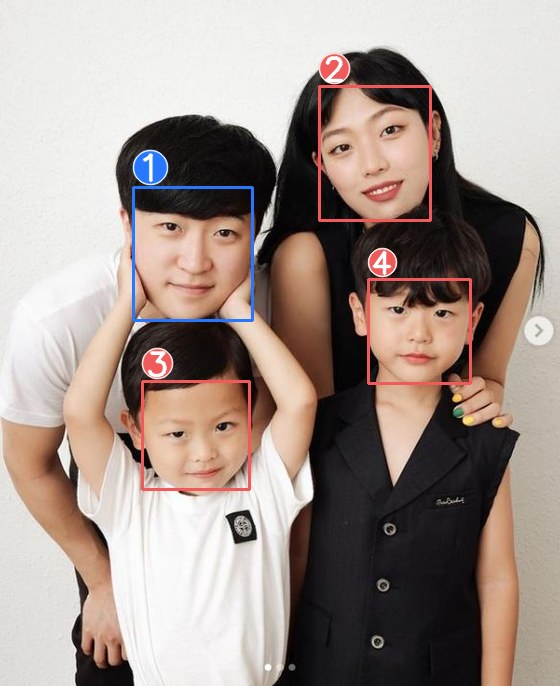
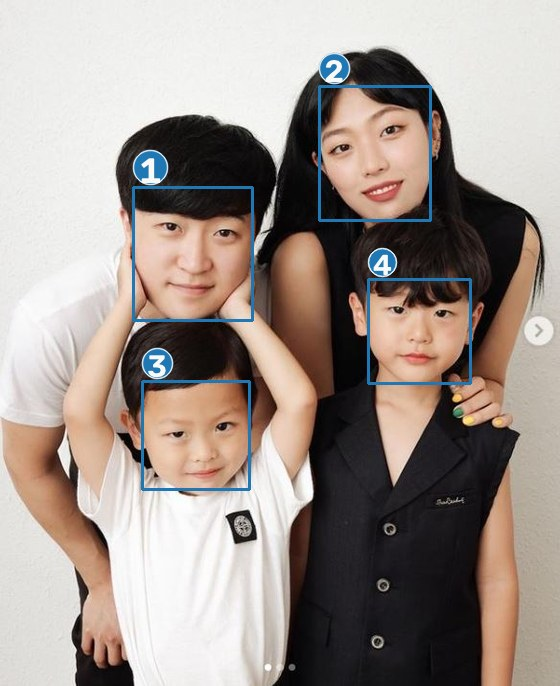
Draw faces in one color and match the demo to the portfolio design
Gender is now read from the list text instead of box color, so the
compute draw() uses one accent color (#1F77B4) for every box and badge
and the six sample annotations are redrawn with it. Detection on the
original test_images gives the same face count, order, age, gender and
emotion as the results embedded in the static page. The static page uses
the portfolio's light theme tokens and drops middle-dot meta strings.
Same content as HF Spaces ingyoun/face-rec-demo (25fcaa90) and
ingyoun/face-rec-api (e76b84cf).

Changed region(s): [[0.5464, 0.0612, 0.85, 0.5816], [0.2429, 0.2143, 0.4554, 0.7347], [0.2125, 0.2755, 0.2429, 0.4592]]

diff --git a/hf-spaces/static-demo/index.html b/hf-spaces/static-demo/index.html
@@ -7,81 +7,82 @@
 <link rel="preconnect" href="https://cdn.jsdelivr.net" crossorigin />
 <link rel="stylesheet" as="style" crossorigin
   href="https://cdn.jsdelivr.net/gh/orioncactus/pretendard@v1.3.9/dist/web/static/pretendard.min.css" />
-<link rel="stylesheet"
-  href="https://cdn.jsdelivr.net/npm/@fontsource/jetbrains-mono@5.0.18/index.min.css" />
+
 <style>
   :root{
-    --bg:#010102; --surface:#0f1011; --elevated:#141516; --deep:#18191a;
-    --border:#23252a; --border-mid:#34343a;
-    --fg:#f7f8f8; --fg-2:#d0d6e0; --muted:#8a8f98; --tertiary:#62666d;
-    --accent:#5e6ad2; --accent-light:#828fff;
-    --male:#5b8def; --female:#e06b8b;
+    --paper:#F9FAF8; --panel:#E7E9E4; --accent-wash:#DDEAF4;
+    --ink:#1C2124; --ink-2:#41484C; --ink-3:#5A6266;
+    --accent:#1F77B4; --accent-text:#175F96;
+    --mark-base:#757C81; --rule:#C5CAC6;
+    --font-sans:'Pretendard',-apple-system,BlinkMacSystemFont,system-ui,'Apple SD Gothic Neo','Malgun Gothic',sans-serif;
+    --font-code:ui-monospace,'Cascadia Mono',Consolas,monospace;
+    color-scheme:light;
   }
   *{box-sizing:border-box;}
-  html,body{margin:0;padding:0;background:var(--bg);}
+  html,body{margin:0;padding:0;background:var(--paper);}
   body{
-    font-family:'Pretendard',system-ui,-apple-system,sans-serif;
-    color:var(--fg);-webkit-font-smoothing:antialiased;
-    line-height:1.55;letter-spacing:-0.01em;word-break:keep-all;
+    font-family:var(--font-sans);color:var(--ink-2);
+    -webkit-font-smoothing:antialiased;-moz-osx-font-smoothing:grayscale;
+    line-height:1.55;word-break:keep-all;
   }
-  .mono{font-family:'JetBrains Mono',ui-monospace,monospace;}
+  ::selection{background:var(--accent-wash);}
+  :focus{outline:none;}
+  :focus-visible{outline:2px solid var(--accent-text);outline-offset:2px;border-radius:2px;}
+  a{color:var(--accent-text);text-underline-offset:2px;transition:color .15s ease-out;}
+  a:hover{color:var(--ink);}
+  .mono{font-family:var(--font-code);}
+  .num{font-variant-numeric:tabular-nums;}
+  button{font-family:inherit;}
+  /* 데모 공통: 탭(선택 상태는 파랑 밑줄) */
+  @media (prefers-reduced-motion:reduce){*{transition-duration:0s !important;}}
   .wrap{max-width:920px;margin:0 auto;padding:26px 22px 34px;}
 
-  header h1{font-size:20px;font-weight:600;letter-spacing:-0.03em;margin:0;}
-  header p{font-size:13px;color:var(--muted);margin:6px 0 0;}
-  .pills{display:flex;flex-wrap:wrap;gap:7px;margin:14px 0 0;}
-  .pills span{background:var(--elevated);border:1px solid var(--border);border-radius:9999px;
-    padding:5px 11px;font-size:11px;color:var(--fg-2);}
+  header h1{font-size:20px;font-weight:650;color:var(--ink);margin:0;line-height:1.35;}
+  header p{font-size:15px;color:var(--ink-2);margin:6px 0 0;line-height:1.65;}
+  .pills{display:flex;flex-wrap:wrap;gap:4px 18px;margin:10px 0 0;font-size:14px;color:var(--ink-3);}
 
-  .sec-label{font-size:10.5px;letter-spacing:.14em;color:var(--tertiary);text-transform:uppercase;
-    margin:26px 0 10px;}
+  .sec-label{font-size:15px;font-weight:650;color:var(--ink);margin:28px 0 10px;}
 
   /* picker: sample thumbs + upload */
-  .thumbs{display:grid;grid-template-columns:repeat(auto-fill,minmax(122px,1fr));gap:10px;}
-  .thumb{position:relative;border:1px solid var(--border);border-radius:11px;overflow:hidden;cursor:pointer;
-    background:var(--surface);padding:0;text-align:left;font-family:inherit;transition:border-color .14s,transform .14s;}
-  .thumb img{display:block;width:100%;height:90px;object-fit:cover;background:var(--deep);}
-  .thumb .cap{padding:7px 9px;}
-  .thumb .cap b{display:block;font-size:11.5px;font-weight:600;color:var(--fg);letter-spacing:-0.02em;}
-  .thumb .cap i{display:block;font-size:10px;color:var(--tertiary);font-style:normal;margin-top:2px;}
-  .thumb:hover{border-color:var(--border-mid);transform:translateY(-1px);}
-  .thumb.active{border-color:var(--accent);}
-  .thumb.active::after{content:"";position:absolute;inset:0;box-shadow:inset 0 0 0 1px var(--accent);border-radius:11px;pointer-events:none;}
+  .thumbs{display:grid;grid-template-columns:repeat(auto-fill,minmax(122px,1fr));gap:12px;}
+  .thumb{position:relative;border:0;cursor:pointer;background:none;padding:0;text-align:start;}
+  .thumb img{display:block;width:100%;height:90px;object-fit:cover;border:1px solid var(--rule);}
+  .thumb .cap{display:block;padding:6px 0 0;}
+  .thumb .cap b{display:block;font-size:14px;font-weight:600;color:var(--ink);}
+  .thumb .cap i{display:block;font-size:13px;color:var(--ink-3);font-style:normal;margin-top:1px;}
+  .thumb:hover img{border-color:var(--mark-base);}
+  .thumb.active img{border:2px solid var(--accent);}
+  .thumb.active .cap b{color:var(--accent-text);}
 
-  .upload{margin-top:10px;display:flex;align-items:center;gap:12px;flex-wrap:wrap;
-    border:1px dashed var(--border-mid);border-radius:11px;padding:14px 16px;background:var(--surface);}
-  .upload label{display:inline-flex;align-items:center;gap:8px;cursor:pointer;
-    background:var(--accent);color:#fff;border-radius:8px;padding:8px 15px;font-size:13px;font-weight:500;transition:background .14s;}
-  .upload label:hover{background:var(--accent-light);}
-  .upload input{display:none;}
-  .upload .hint{font-size:11.5px;color:var(--tertiary);}
+  .upload{margin-top:18px;display:flex;align-items:center;gap:14px;flex-wrap:wrap;}
+  .upload label{display:inline-flex;align-items:center;cursor:pointer;
+    background:var(--ink);color:var(--paper);border-radius:2px;padding:12px 20px;font-size:15px;font-weight:600;line-height:1;transition:background .15s ease-out;}
+  .upload label:hover{background:var(--ink-2);}
+  .upload label:focus-within{outline:2px solid var(--accent-text);outline-offset:2px;}
+  .upload input{position:absolute;opacity:0;width:1px;height:1px;}
+  .upload .hint{font-size:13px;color:var(--ink-3);flex:1;min-width:240px;}
 
   /* result */
-  .result{margin-top:14px;display:grid;grid-template-columns:1.4fr 1fr;gap:14px;align-items:start;}
+  .result{margin-top:22px;display:grid;grid-template-columns:1.4fr 1fr;gap:28px;align-items:start;}
   @media(max-width:640px){.result{grid-template-columns:1fr;}}
-  .stage{border:1px solid var(--border);border-radius:14px;overflow:hidden;background:var(--deep);position:relative;min-height:160px;}
+  .stage{border:1px solid var(--rule);overflow:hidden;position:relative;min-height:160px;}
   .stage img{display:block;width:100%;height:auto;}
   .stage .loading{position:absolute;inset:0;display:flex;flex-direction:column;align-items:center;justify-content:center;
-    gap:10px;background:rgba(1,1,2,.72);color:var(--fg-2);font-size:12.5px;text-align:center;padding:20px;}
-  .spinner{width:26px;height:26px;border:3px solid var(--border-mid);border-top-color:var(--accent);border-radius:50%;animation:spin .8s linear infinite;}
-  @keyframes spin{to{transform:rotate(360deg);}}
+    gap:10px;background:rgba(249,250,248,.86);color:var(--ink);font-size:15px;padding:20px;white-space:pre-line;}
 
-  .panel{border:1px solid var(--border);border-radius:14px;background:var(--surface);padding:14px 15px;}
-  .panel-h{display:flex;align-items:baseline;justify-content:space-between;gap:10px;margin-bottom:11px;}
-  .panel-h h3{font-size:13px;font-weight:600;letter-spacing:-0.02em;margin:0;}
-  .panel-h .n{font-size:11px;color:var(--tertiary);}
-  .faces{display:flex;flex-direction:column;gap:8px;max-height:340px;overflow:auto;}
-  .face{display:flex;align-items:center;gap:11px;padding:9px 11px;border:1px solid var(--border);border-radius:10px;background:var(--elevated);}
-  .face .tag{width:26px;height:26px;flex:none;border-radius:7px;display:flex;align-items:center;justify-content:center;
-    font-size:11px;font-weight:600;color:#fff;font-family:'JetBrains Mono',monospace;}
+  .panel-h{display:flex;align-items:baseline;justify-content:space-between;gap:10px;margin-bottom:8px;}
+  .panel-h h3{font-size:15px;font-weight:650;color:var(--ink);margin:0;}
+  .panel-h .n{font-size:14px;color:var(--ink-3);}
+  .faces{display:flex;flex-direction:column;max-height:340px;overflow:auto;border-top:1px solid var(--ink);}
+  .face{display:flex;align-items:center;gap:12px;padding:9px 2px;border-bottom:1px solid var(--rule);}
+  .face .tag{width:26px;height:26px;flex:none;border-radius:50%;display:flex;align-items:center;justify-content:center;
+    font-size:13px;font-weight:650;color:var(--paper);background:var(--accent);font-variant-numeric:tabular-nums;}
   .face .info{min-width:0;flex:1;}
-  .face .info .top{font-size:13px;font-weight:500;color:var(--fg);}
-  .face .info .sub{font-size:11px;color:var(--muted);margin-top:1px;}
-  .g-male{color:var(--male);} .g-female{color:var(--female);}
+  .face .info .top{font-size:15px;font-weight:600;color:var(--ink);}
+  .face .info .sub{font-size:14px;color:var(--ink-2);margin-top:1px;}
 
-  .note{font-size:11.5px;color:var(--tertiary);margin:16px 0 0;line-height:1.6;}
-  .note a{color:var(--muted);}
-  .err{color:var(--female);font-size:12px;}
+  .note{font-size:13px;color:var(--ink-3);margin:20px 0 0;line-height:1.65;}
+  .err{color:var(--ink);font-size:15px;padding:10px 0;}
 </style>
 </head>
 <body>
@@ -90,8 +91,8 @@
     <h1>얼굴 나이·성별·감정 추정</h1>
     <p>RetinaFace로 얼굴을 검출한 뒤, 검출된 얼굴마다 나이(회귀)·성별·감정(6클래스)을 동시에 추정합니다.</p>
     <div class="pills">
-      <span>RetinaFace 검출</span><span>나이 회귀 · InceptionResnetV1</span>
-      <span>성별 · CNN</span><span>감정 6클래스 · CNN</span><span class="mono">ONNX Runtime</span>
+      <span>RetinaFace 검출</span><span>나이 회귀, InceptionResnetV1</span>
+      <span>성별, CNN</span><span>감정 6클래스, CNN</span><span>ONNX Runtime</span>
     </div>
   </header>
 
@@ -100,13 +101,13 @@
 
   <div class="upload">
     <label>직접 이미지 올리기<input type="file" id="file" accept="image/*"></label>
-    <span class="hint">업로드 시 Hugging Face에서 ONNX 모델이 실시간 추론합니다 · 첫 호출은 서버 대기(콜드스타트)로 30~60초 걸릴 수 있습니다.</span>
+    <span class="hint">업로드 시 Hugging Face에서 ONNX 모델이 실시간 추론합니다. 첫 호출은 서버 대기(콜드스타트)로 30~60초 걸릴 수 있습니다.</span>
   </div>
 
   <div class="result">
     <div class="stage" id="stage"><img id="stage-img" alt="추론 결과 이미지"></div>
     <div class="panel">
-      <div class="panel-h"><h3 id="res-title">검출 결과</h3><span class="n mono" id="res-n"></span></div>
+      <div class="panel-h"><h3 id="res-title">검출 결과</h3><span class="n" id="res-n"></span></div>
       <div class="faces" id="faces"></div>
     </div>
   </div>
@@ -115,7 +116,7 @@
     검출은 RetinaFace(ONNX), 나이·성별·감정은 원본 프로젝트의 학습 모델을 ONNX로 변환해 추론합니다.
     감정은 FER-2013에서 희소 클래스(disgust)를 제외한 6클래스로 학습되었습니다.
     측면 각도·저해상도 얼굴에서는 정확도가 떨어질 수 있습니다 —
-    <a href="https://github.com/buzziru/DL_FACE_REC" target="_blank" rel="noopener">GitHub 저장소 ↗</a>
+    <a href="https://github.com/buzziru/DL_FACE_REC" target="_blank" rel="noopener">GitHub 저장소</a>
   </p>
 </div>
 
@@ -126,7 +127,7 @@ const EMOTION_KR = { Angry:"화남", Fear:"공포", Happy:"행복", Neutral:"무
 
 // 사전 추론 샘플 (로컬 파이프라인으로 계산해 내장 — 서버 호출 없음)
 const SAMPLES = [
-  {id:"group-women", label:"여성 그룹", desc:"5인 · 전원 여성", faces:[
+  {id:"group-women", label:"여성 그룹", desc:"5인, 전원 여성", faces:[
     {age:29,gender:"Female",emotion:"Happy"},{age:23,gender:"Female",emotion:"Happy"},
     {age:21,gender:"Female",emotion:"Neutral"},{age:21,gender:"Female",emotion:"Neutral"},
     {age:27,gender:"Female",emotion:"Happy"}]},
@@ -141,7 +142,7 @@ const SAMPLES = [
   {id:"couple", label:"가족", desc:"나이 6~22 혼합", faces:[
     {age:18,gender:"Male",emotion:"Neutral"},{age:22,gender:"Female",emotion:"Happy"},
     {age:6,gender:"Female",emotion:"Neutral"},{age:8,gender:"Female",emotion:"Neutral"}]},
-  {id:"woman", label:"인물 · 여성", desc:"단일 얼굴", faces:[
+  {id:"woman", label:"인물, 여성", desc:"단일 얼굴", faces:[
     {age:20,gender:"Female",emotion:"Neutral"}]},
   {id:"child", label:"초등학생", desc:"저연령대", faces:[
     {age:9,gender:"Male",emotion:"Happy"},{age:12,gender:"Female",emotion:"Neutral"},
@@ -155,14 +156,11 @@ const stageImg = $("stage-img"), stage = $("stage"), facesEl = $("faces");
 function renderFaces(faces){
   $("res-n").textContent = `얼굴 ${faces.length}명`;
   facesEl.innerHTML = faces.map((f,i)=>{
-    const male = f.gender === "Male";
-    const col = male ? "var(--male)" : "var(--female)";
-    const gcls = male ? "g-male" : "g-female";
     return `<div class="face">
-      <div class="tag" style="background:${col}">${i+1}</div>
+      <div class="tag">${i+1}</div>
       <div class="info">
-        <div class="top">${f.age}세 · <span class="${gcls}">${GENDER_KR[f.gender]||f.gender}</span></div>
-        <div class="sub">감정 · ${EMOTION_KR[f.emotion]||f.emotion}</div>
+        <div class="top">${f.age}세, ${GENDER_KR[f.gender]||f.gender}</div>
+        <div class="sub">감정: ${EMOTION_KR[f.emotion]||f.emotion}</div>
       </div>
     </div>`;
   }).join("");
@@ -171,7 +169,7 @@ function renderFaces(faces){
 function showLoading(msg){
   const d = document.createElement("div");
   d.className = "loading"; d.id = "loading";
-  d.innerHTML = `<div class="spinner"></div><div>${msg}</div>`;
+  d.textContent = msg;
   stage.appendChild(d);
 }
 function hideLoading(){ const d = $("loading"); if(d) d.remove(); }

diff --git a/hf-spaces/compute/inference.py b/hf-spaces/compute/inference.py
@@ -76,19 +76,21 @@ class FacePipeline:
         return out
 
 
-# blue for male, red/pink for female (BGR for cv2 drawing)
-_MALE_BGR = (255, 120, 40)
-_FEMALE_BGR = (90, 90, 240)
+# one color for every face: the site accent #1F77B4 (BGR for cv2 drawing).
+# Gender is read from the side list text, not from color (portfolio decision 0041).
+_BOX_BGR = (180, 119, 31)
+# badge outline/number: the site paper #F9FAF8 instead of pure white
+_PAPER_BGR = (248, 250, 249)
 
 
 def draw(rgb, results):
-    """Draw gender-colored boxes with a numbered badge per face (details go in
+    """Draw one-color boxes with a numbered badge per face (details go in
     the side panel). A badge avoids the label overlap that full text captions
     cause when faces are packed close together. Returns RGB uint8."""
     img = cv2.cvtColor(rgb, cv2.COLOR_RGB2BGR).copy()
     for i, r in enumerate(results, 1):
         x1, y1, x2, y2 = r["box"]
-        col = _MALE_BGR if r["gender"] == "Male" else _FEMALE_BGR
+        col = _BOX_BGR
         cv2.rectangle(img, (x1, y1), (x2, y2), col, 2)
         # numbered badge just above the box (outside, so it never covers the face);
         # number matches the card list
@@ -96,11 +98,11 @@ def draw(rgb, results):
         cx = x1 + rad
         cy = max(rad + 1, y1 - rad - 3)
         cv2.circle(img, (cx, cy), rad, col, -1, cv2.LINE_AA)
-        cv2.circle(img, (cx, cy), rad, (255, 255, 255), 1, cv2.LINE_AA)
+        cv2.circle(img, (cx, cy), rad, _PAPER_BGR, 1, cv2.LINE_AA)
         label = str(i)
         fs = rad / 14.0
         th = max(1, int(round(rad / 9)))
         (tw, tht), _ = cv2.getTextSize(label, cv2.FONT_HERSHEY_SIMPLEX, fs, th)
         cv2.putText(img, label, (cx - tw // 2, cy + tht // 2),
-                    cv2.FONT_HERSHEY_SIMPLEX, fs, (255, 255, 255), th, cv2.LINE_AA)
+                    cv2.FONT_HERSHEY_SIMPLEX, fs, _PAPER_BGR, th, cv2.LINE_AA)
     return cv2.cvtColor(img, cv2.COLOR_BGR2RGB)
